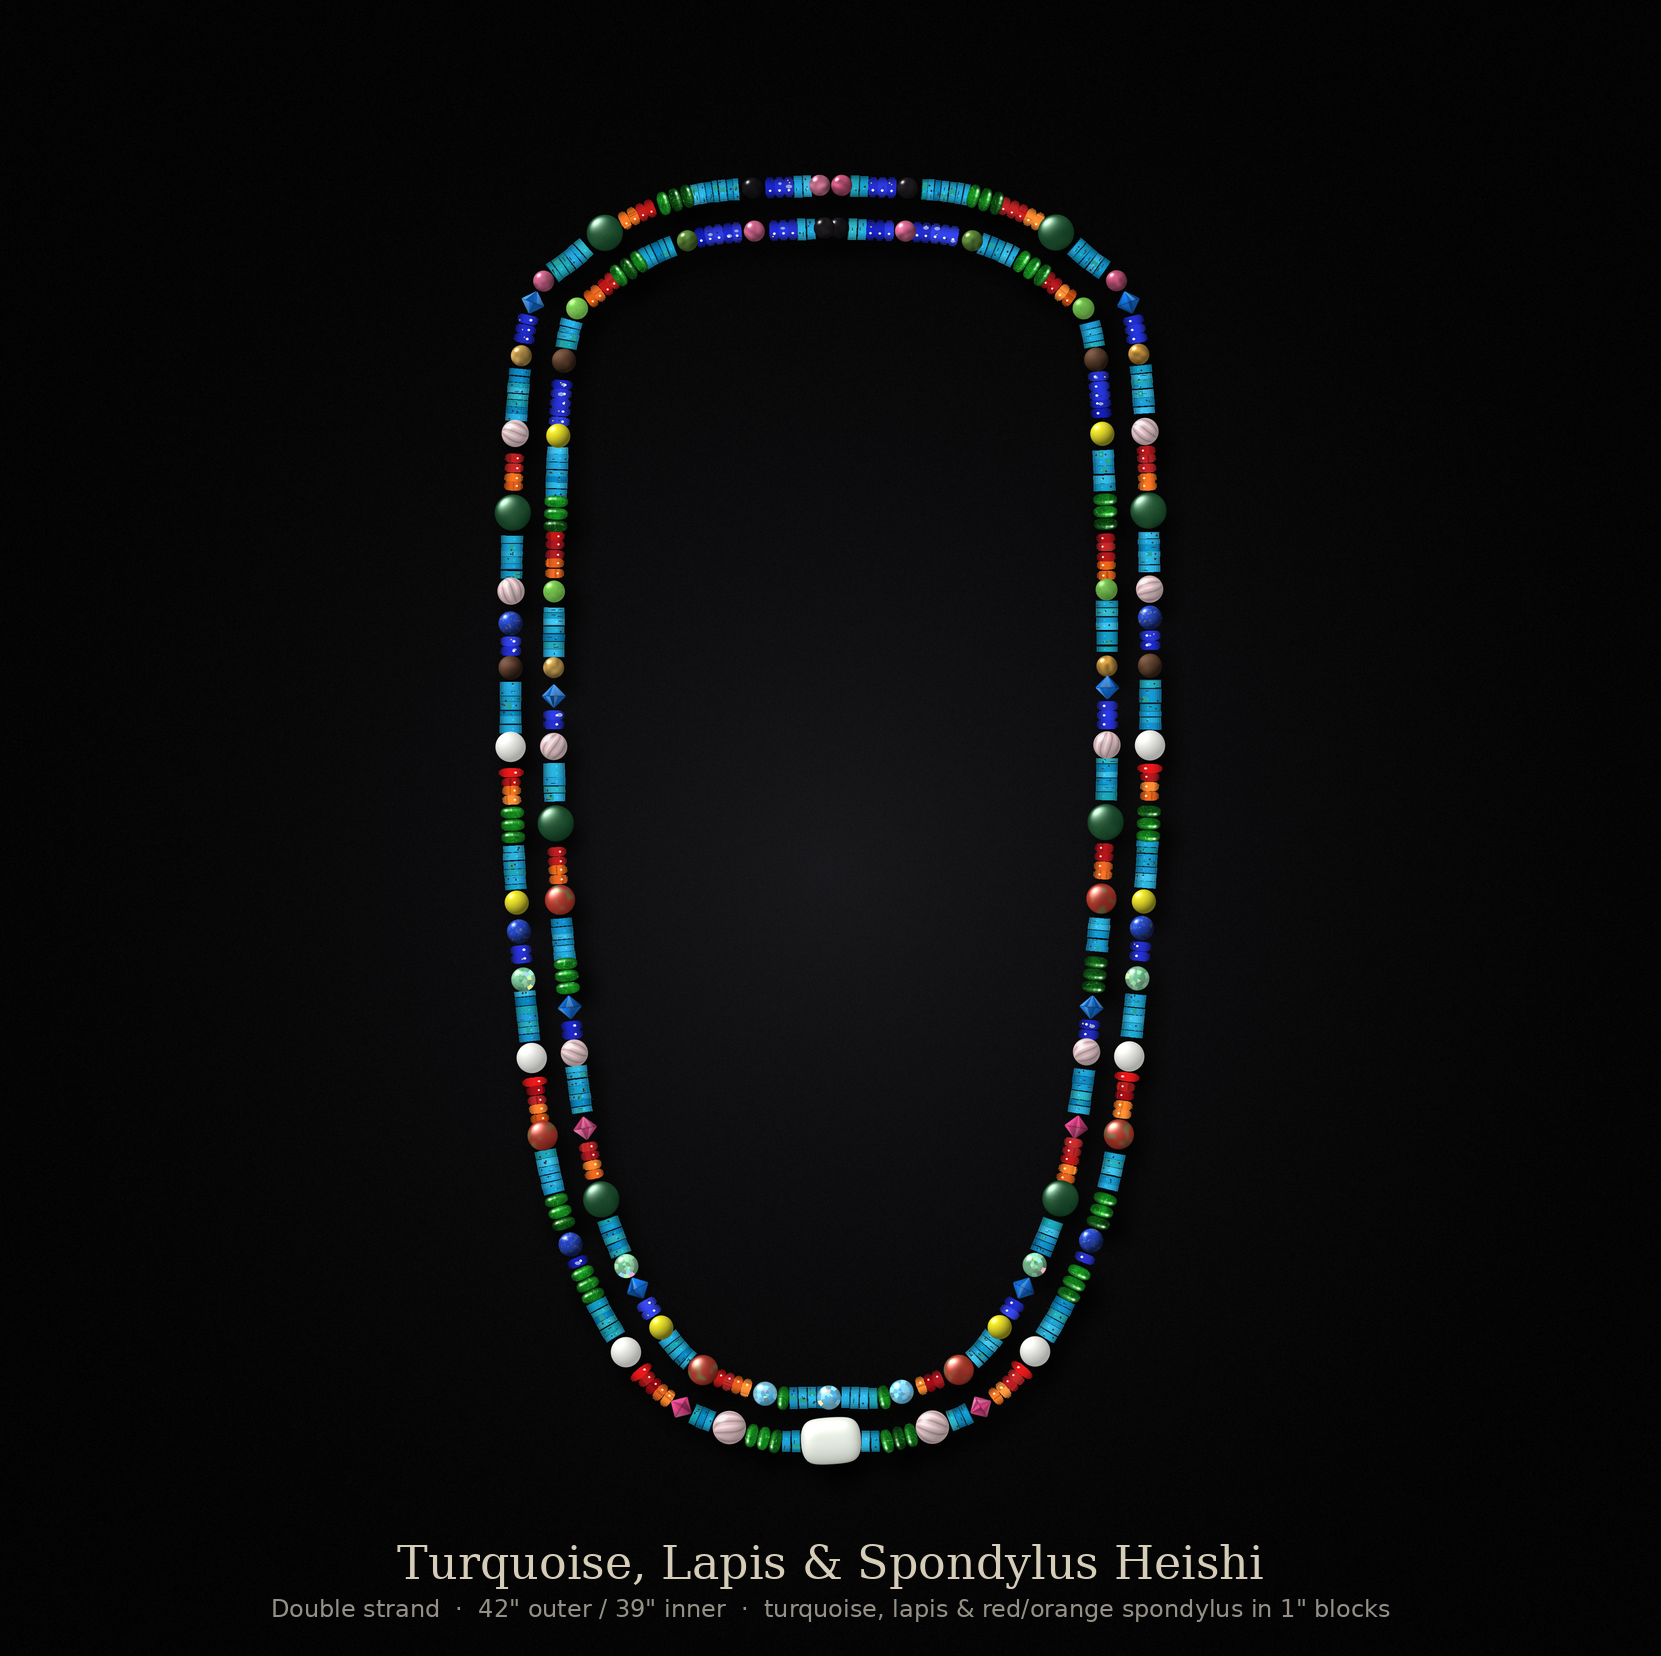
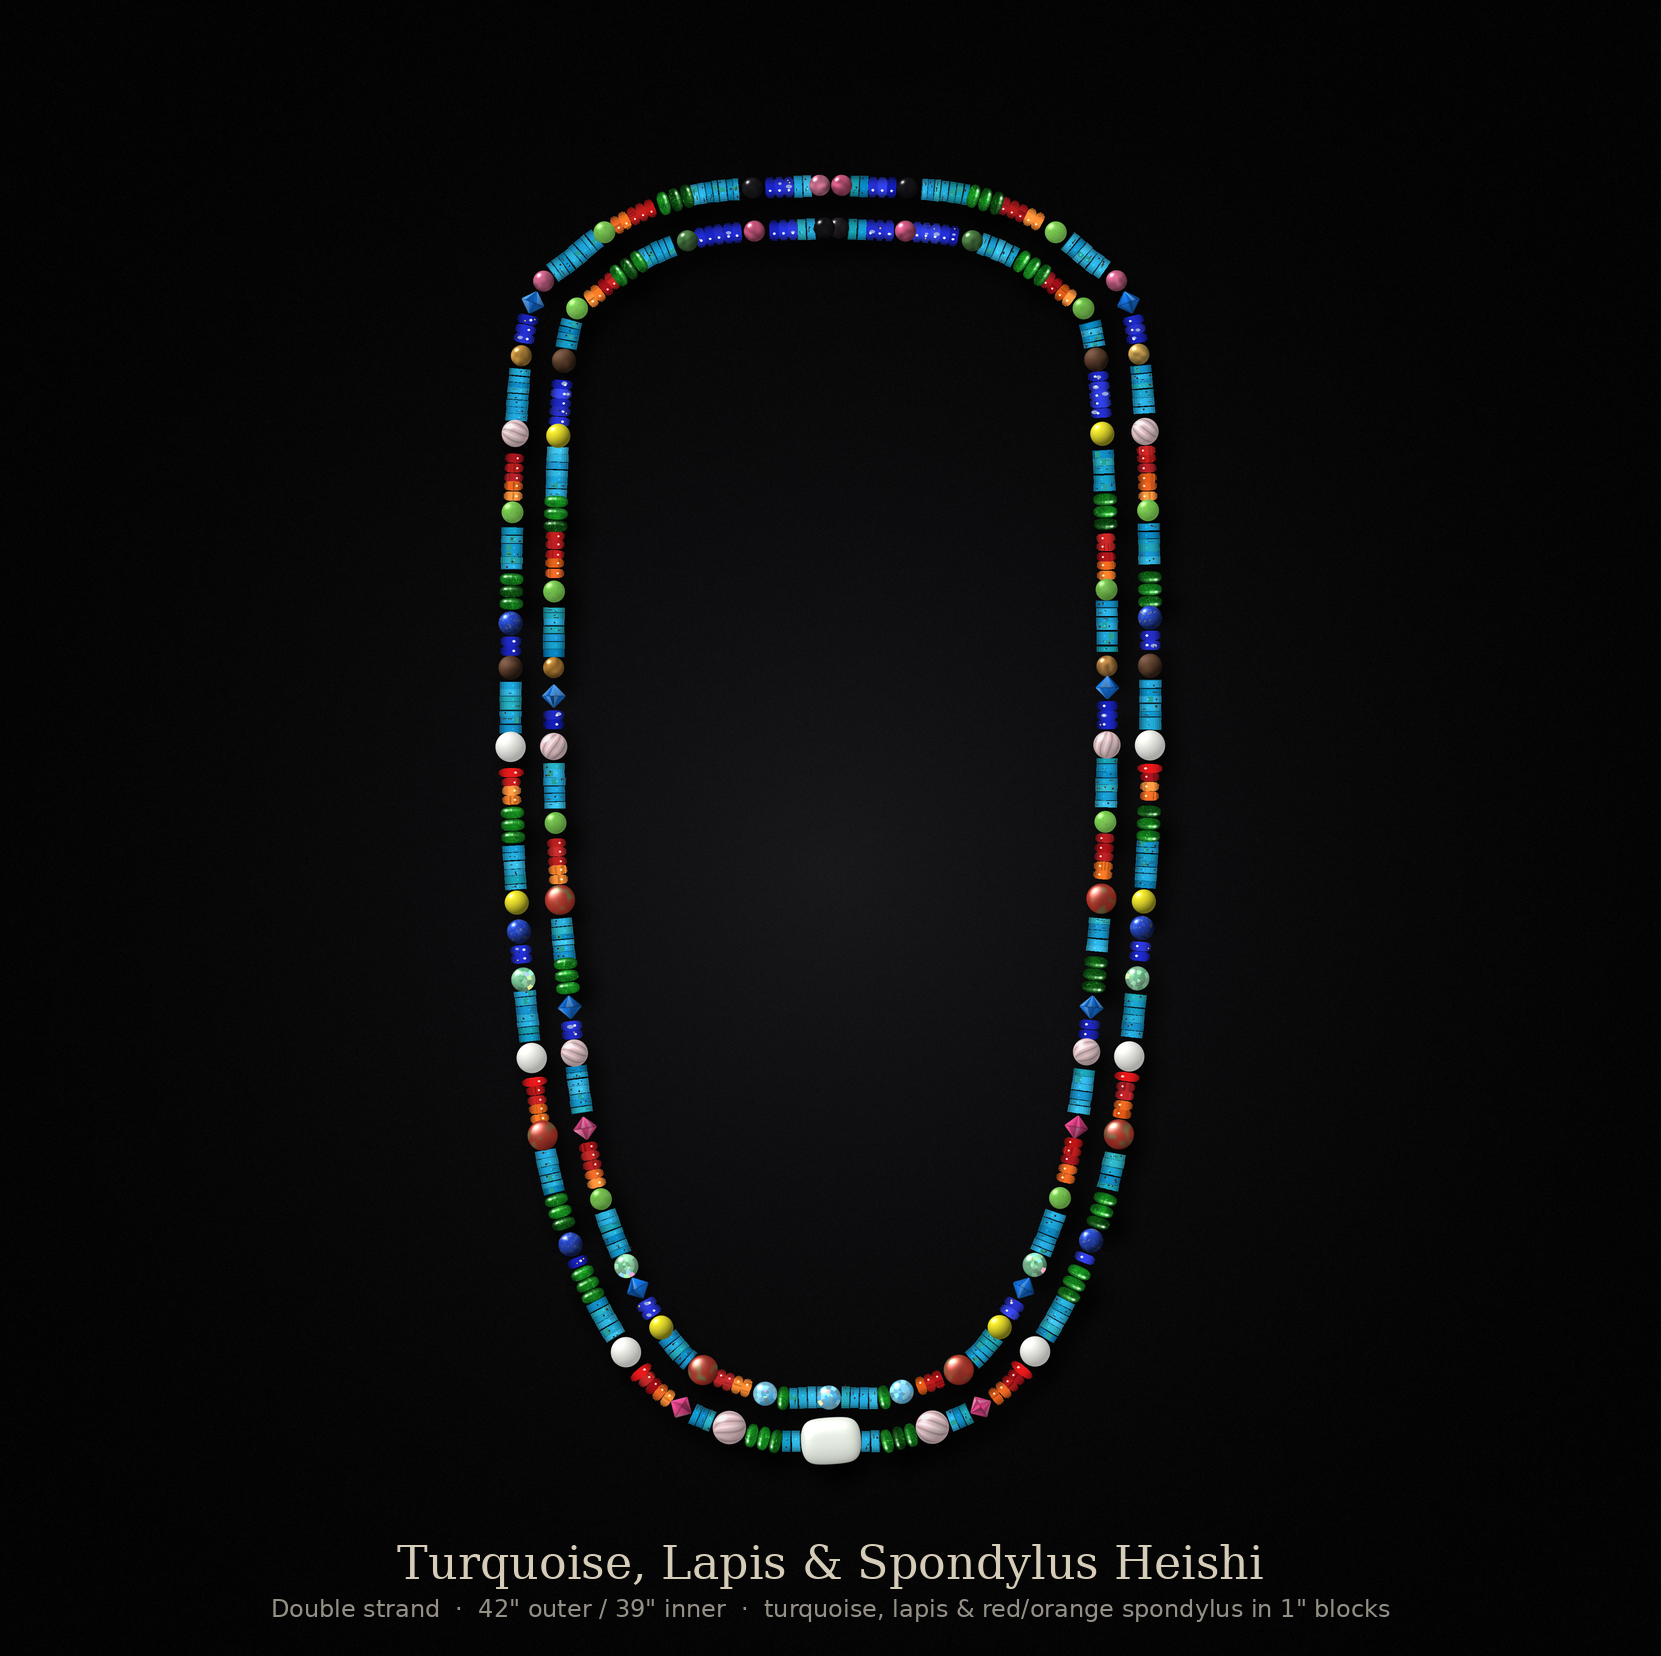
Version 2: all Russian jade replaced with 7.3mm green jade
Claude-Session: https://claude.ai/code/session_014be1vF4Rdf8sv9Si75Gudv

diff --git a/necklace/render_necklace.py b/necklace/render_necklace.py
@@ -393,6 +393,11 @@ if V2:
                       and not orig_hidden(b[0], b[1])], key=lambda k: barrels[1][k][1])
         for k in _ks[:2]:
             barrels[1][k] = barrels[1][k][:5] + ("gjade7",)
+    # and now every Russian jade round on both strands -> 7.3 mm green jade
+    for _st in (0, 1):
+        for k, b in enumerate(barrels[_st]):
+            if b[5] == "jade":
+                barrels[_st][k] = b[:5] + ("gjade7",)
 
 # 8 x 3 mm spondylus rondelles flank every white barrel: red on one side, orange on the other
 RON_D, RON_T = 8.0, 3.0
@@ -432,7 +437,7 @@ if not EXTRAS:
     tourm = {st: [e[:5] + (e[5],) for e in jaspers[st]] for st in (0, 1)}
     if V2:
         # outer-strand 9 mm rose quartz sitting beside a Russian jade -> three 8 mm chrome diopside
-        _jd = [(b[0], b[1]) for b in barrels[1] if b[5] == "jade"]
+        _jd = [(b[0], b[1]) for b in barrels[1] if b[5] in ("jade", "gjade7")]
         for _k, _t in enumerate(tourm[0]):
             if _t[5] == "rose" and any(math.hypot(_t[0] - jx, _t[1] - jy) < 16 for jx, jy in _jd):
                 tourm[0][_k] = _t[:5] + ("peridot3",)
